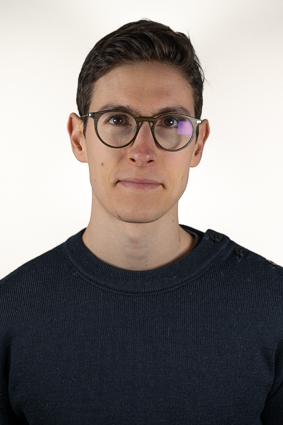
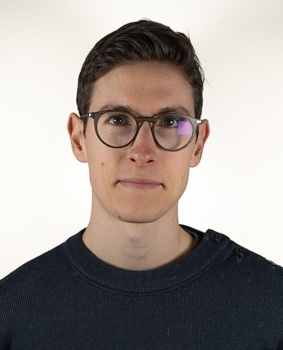
modifs + menu pages

Changed region(s): [[0.0, 0.0286, 1.0, 1.0], [0.9046, 0.8, 1.0, 1.0]]

diff --git a/about.html b/about.html
@@ -1,0 +1,6 @@
+---
+layout: single
+title: About
+permalink: /
+author_profile: true
+---

diff --git a/projects.html b/projects.html
@@ -1,0 +1,6 @@
+---
+layout: single
+title: Projects
+permalink: /projects/
+author_profile: true
+---

diff --git a/publications.html b/publications.html
@@ -1,0 +1,6 @@
+---
+layout: single
+title: Publications
+permalink: /publications/
+author_profile: true
+---